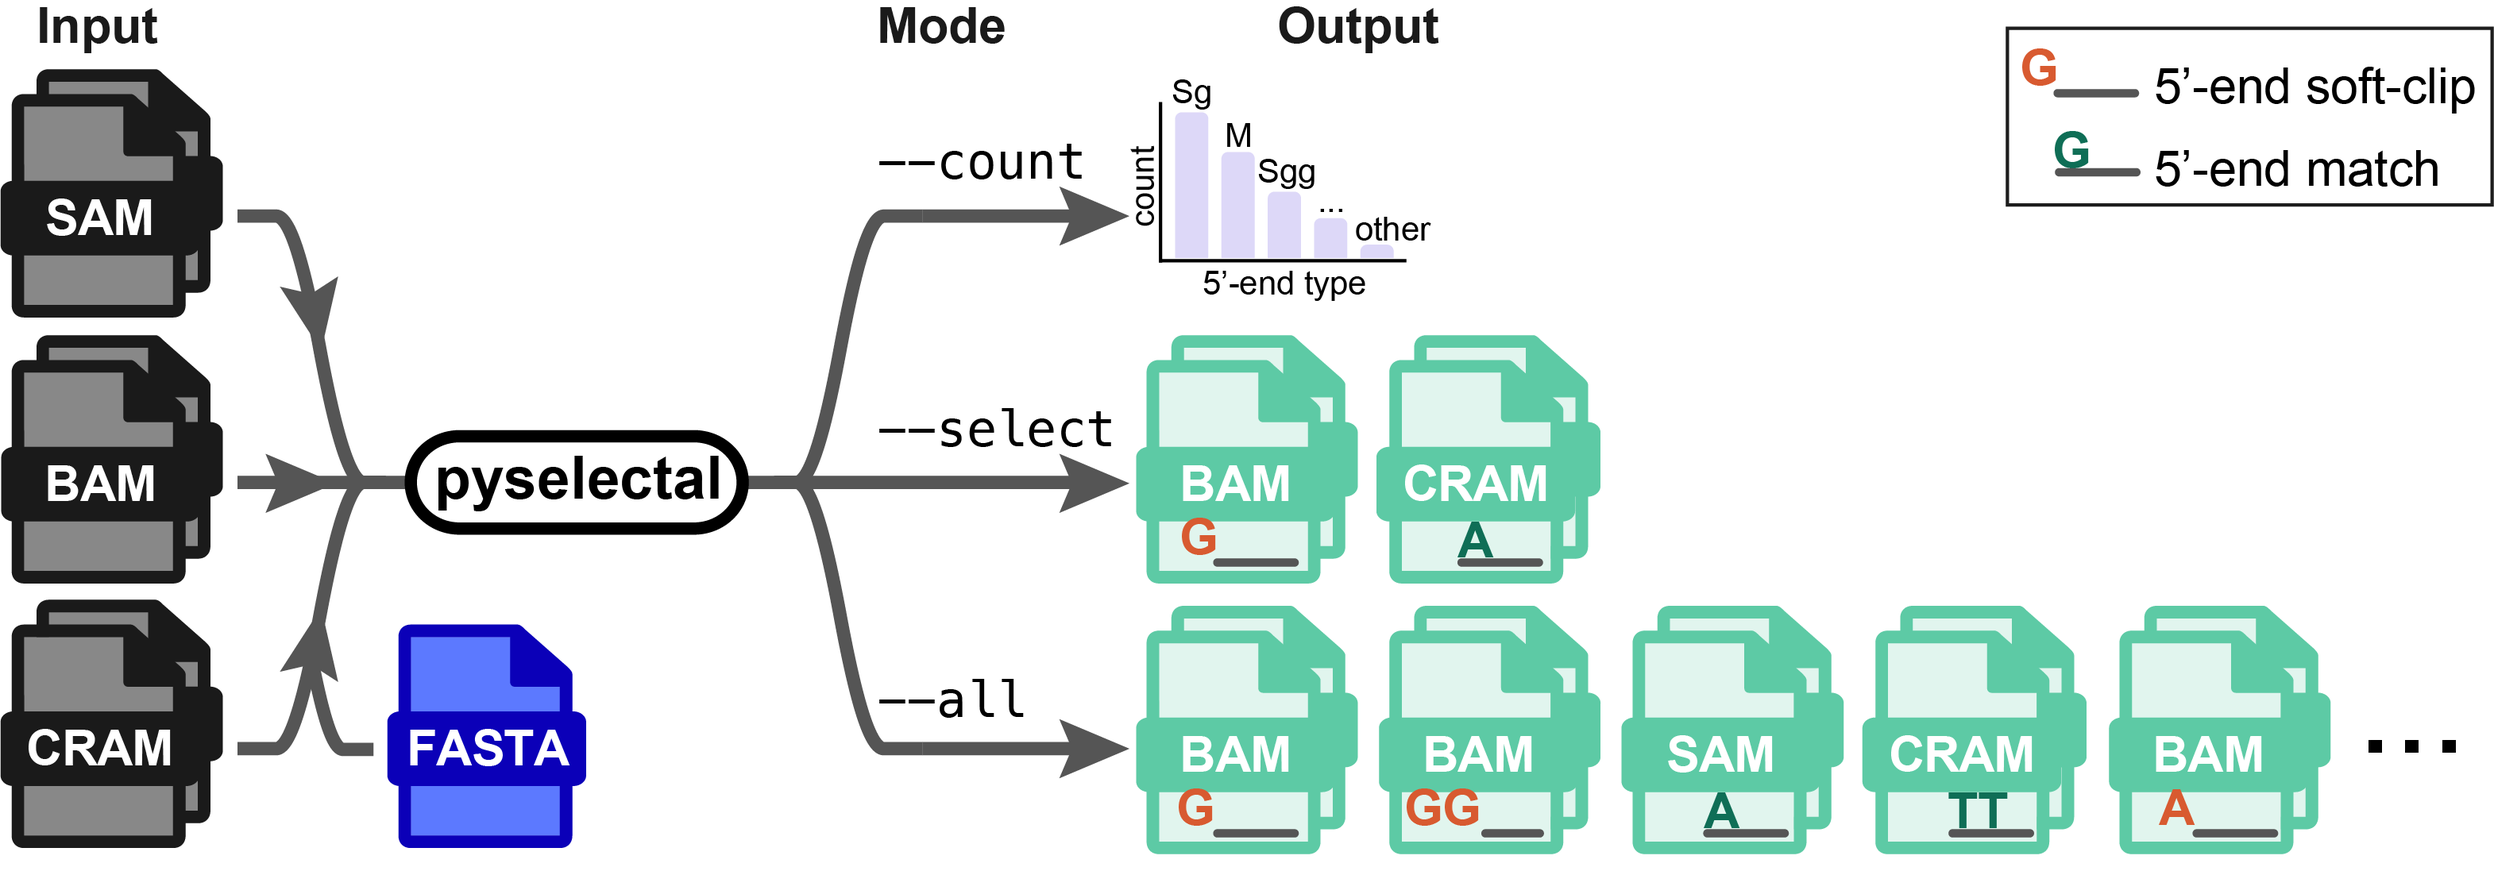
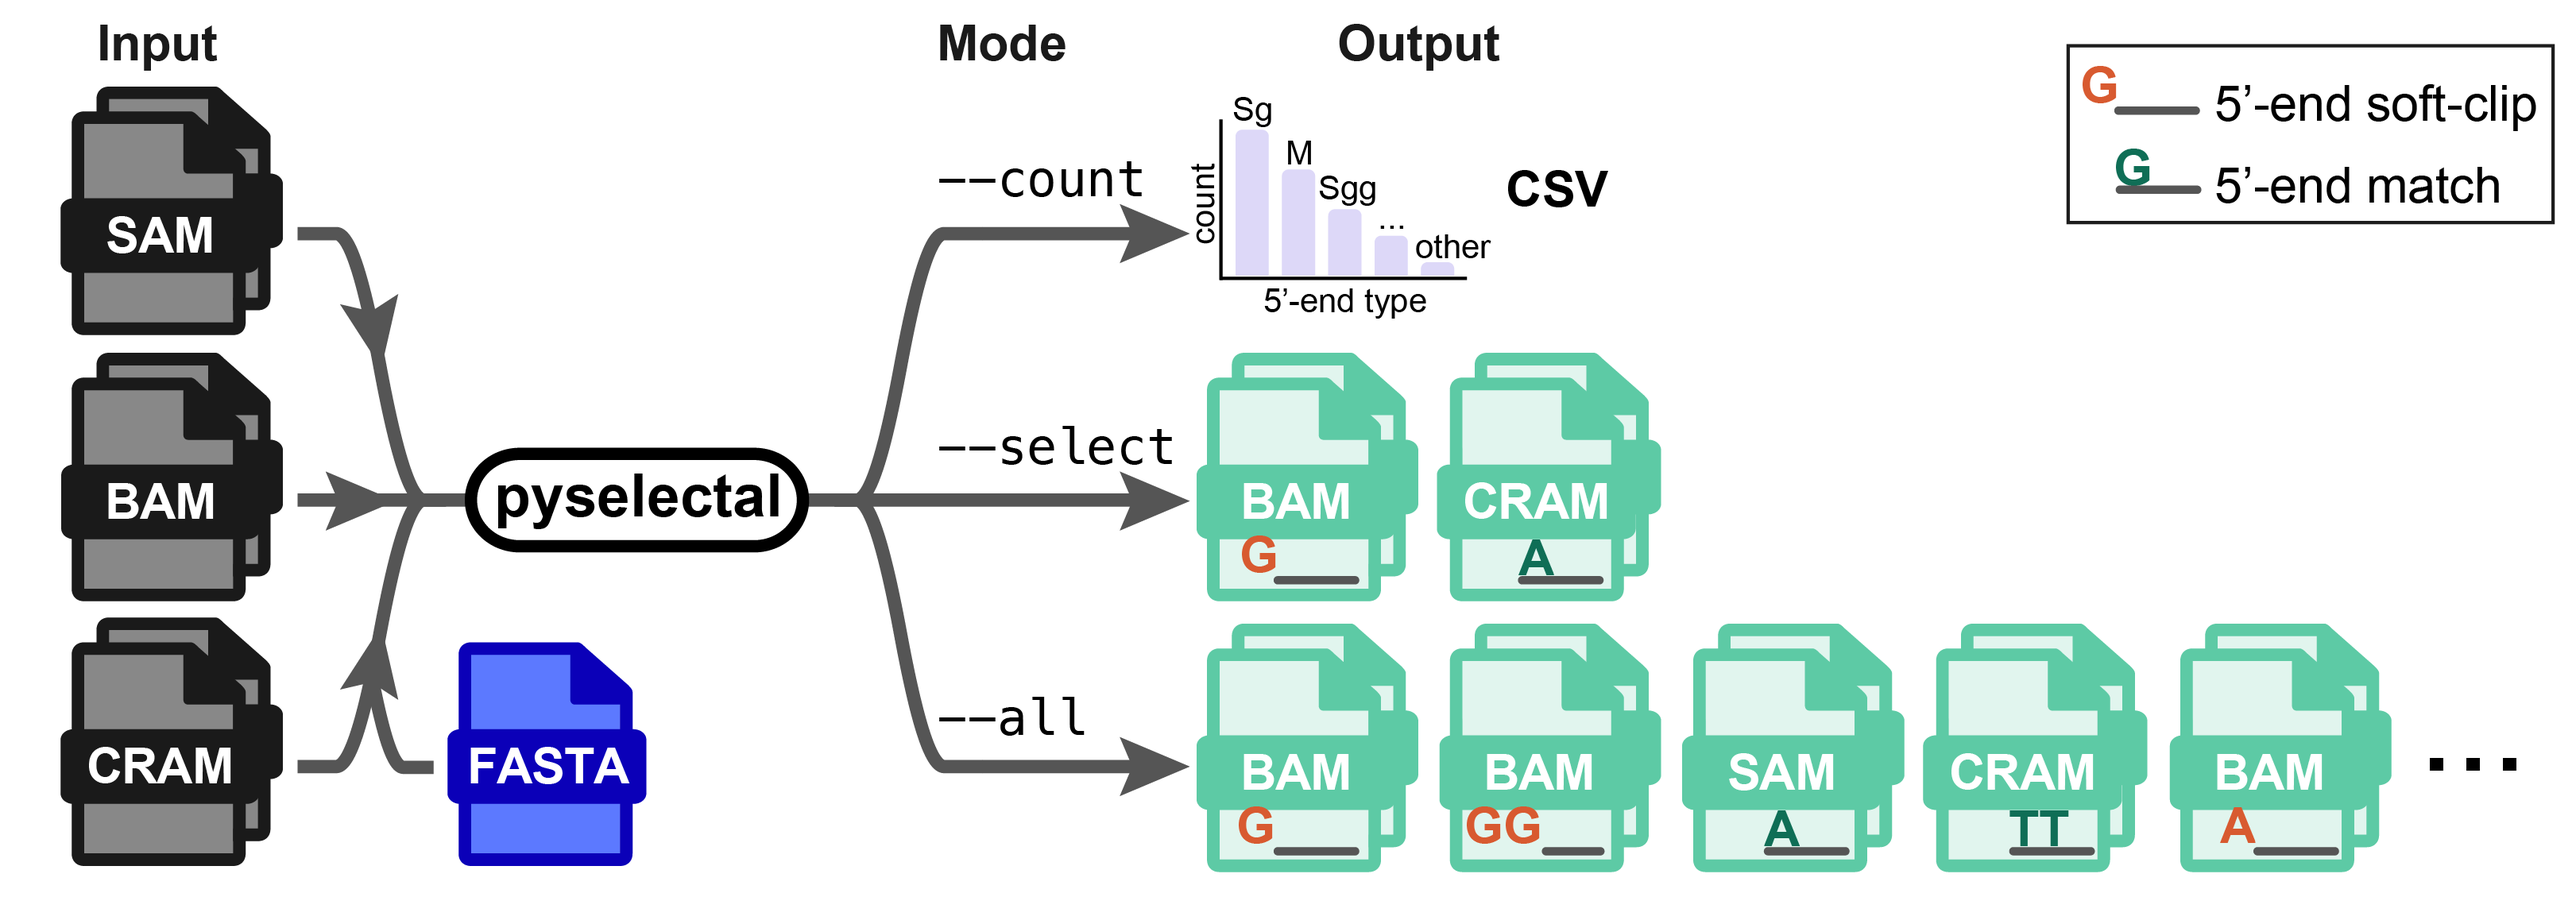
Added installation of the realise in README.md

diff --git a/README.md b/README.md
@@ -49,7 +49,20 @@ pip install pysam
 
 ## Installation
 
-Clone the repository and make `pyselectal.py` executable:
+### Option 1: Install a fixed release version (recommended for reproducibility)
+
+Download a specific release from the [Releases page](https://github.com/nikitin-p/pyselectal/releases):
+
+```bash
+# Download and extract the release archive (replace v1.0 with the desired version)
+curl -sL https://github.com/nikitin-p/pyselectal/archive/refs/tags/v1.0.tar.gz | tar xz
+cd pyselectal-1.0
+chmod +x pyselectal.py
+```
+
+### Option 2: Install the latest development version
+
+Clone the repository to get the most recent code (may include unreleased changes):
 
 ```bash
 git clone https://github.com/nikitin-p/pyselectal.git
@@ -57,9 +70,13 @@ cd pyselectal
 chmod +x pyselectal.py
 ```
 
-Then, you can run it directly:
+### Running
 
-`pyselectal.py --help`
+After installation via either option, you can run the tool directly:
+
+```bash
+./pyselectal.py --help
+```
 
 ## Usage
 
